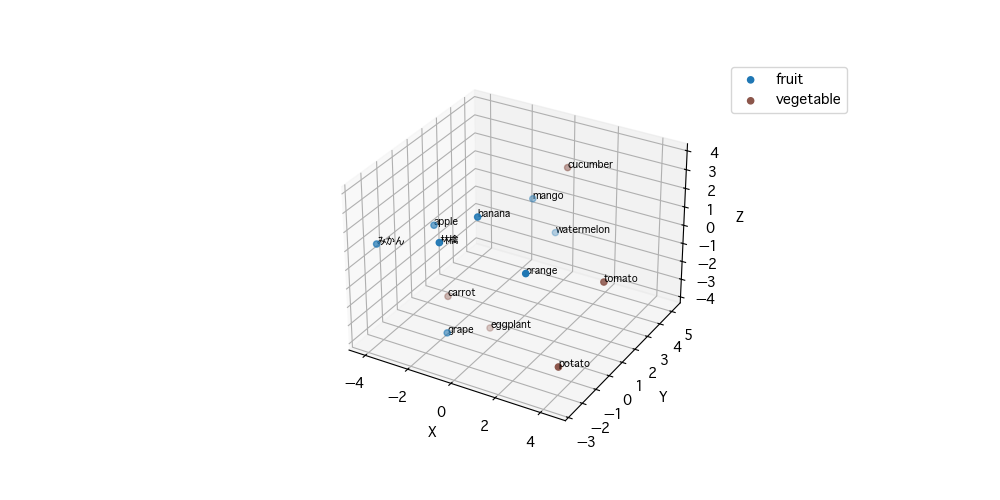
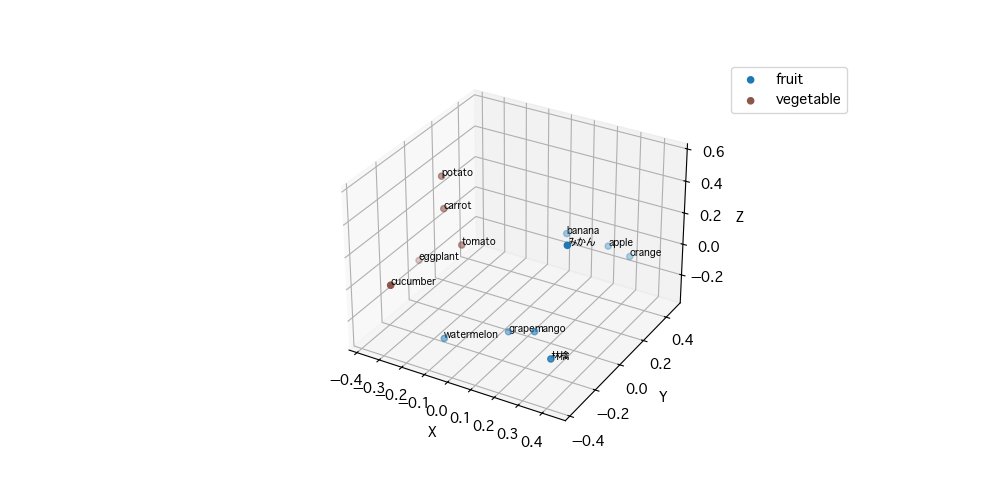
本番embeddingに置き換え

diff --git a/main.py b/main.py
@@ -16,7 +16,7 @@ def get_embeddings(words, model="text-embedding-3-small"):
     embeddings = []
     for word in words:
         text = word.replace("\n", " ")
-        embedding = np.random.rand(768)  # 768次元の埋め込みを仮定
+        embedding = client.embeddings.create(input=[text], model=model).data[0].embedding
         embeddings.append(embedding)
     return embeddings
 
